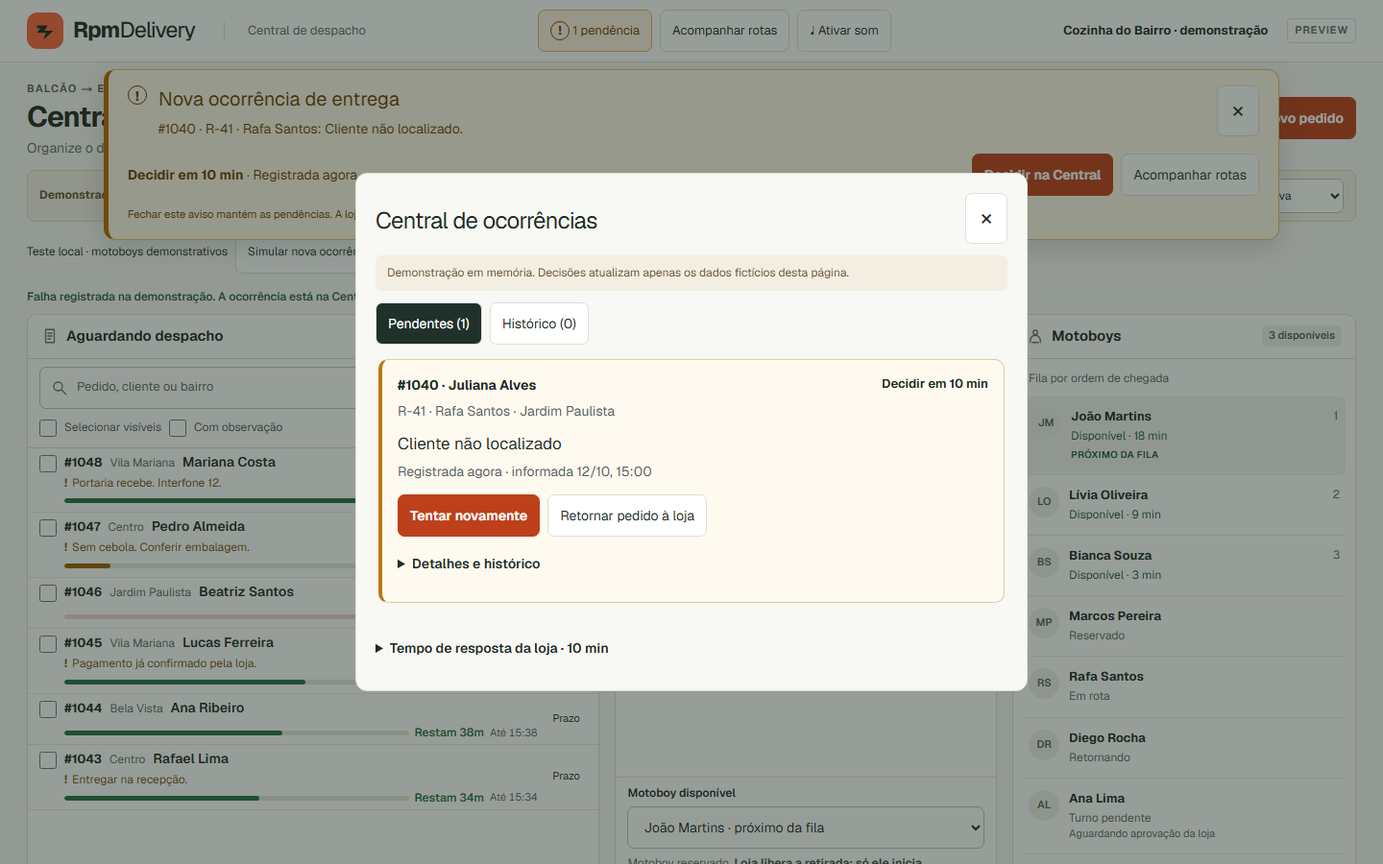
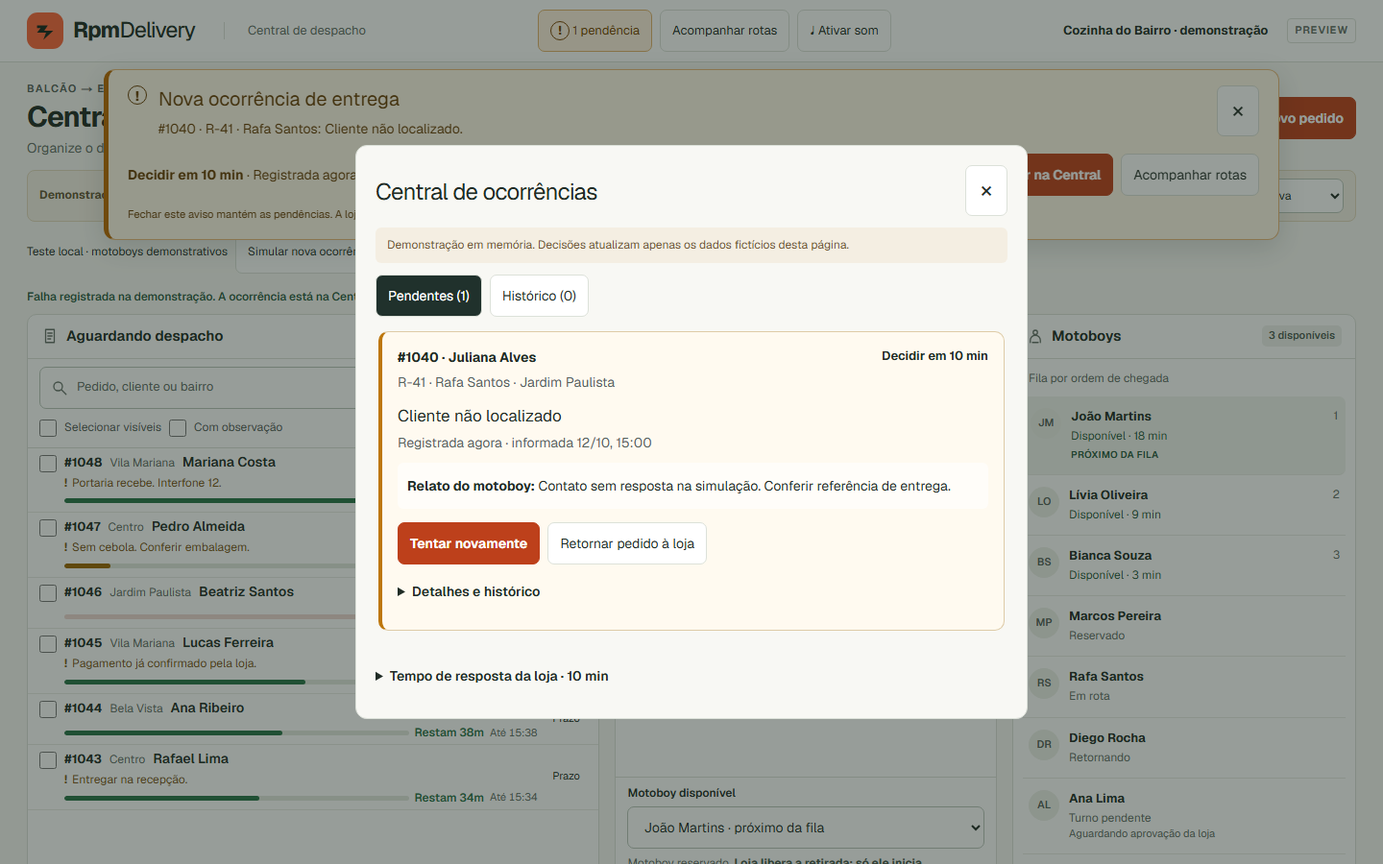
fix: clarify occurrence decisions and courier context

diff --git a/tests/e2e/operations-issues.spec.ts b/tests/e2e/operations-issues.spec.ts
@@ -101,6 +101,9 @@ test("som exige opt-in, agrupa simultâneas e não repete em relógio, reabertur
   await page.getByRole("button",{name:"Ativar som de alertas"}).click();await expect(page.getByRole("button",{name:"Silenciar alertas"})).toHaveAttribute("aria-pressed","true");
   await page.clock.runFor(1000);expect(await counters()).toEqual([0,1]);
   await open(page,"issues-multiple");expect(await counters()).toEqual([0,0]);
+  await page.getByRole("button",{name:"Simular 3 ocorrências simultâneas"}).click();
+  await expect(page.getByRole("heading",{name:"3 novas ocorrências"})).toBeVisible();await page.clock.runFor(250);expect(await counters()).toEqual([0,0]);
+  await page.reload();await expect(page.getByRole("button",{name:"Ativar som de alertas"})).toHaveAttribute("aria-pressed","false");
   await page.getByRole("button",{name:"Ativar som de alertas"}).click();await page.getByRole("button",{name:"Simular 3 ocorrências simultâneas"}).click();
   await expect(page.getByRole("heading",{name:"3 novas ocorrências"})).toBeVisible();await page.clock.runFor(250);
   expect(await counters()).toEqual([2,1]);await page.clock.runFor(5000);expect(await counters()).toEqual([2,1]);
@@ -109,6 +112,41 @@ test("som exige opt-in, agrupa simultâneas e não repete em relógio, reabertur
   await page.clock.runFor(1000);expect(await counters()).toEqual([2,1]);
   await page.getByRole("button",{name:"Silenciar alertas"}).click();await page.getByRole("button",{name:"Simular nova ocorrência"}).click();await page.clock.runFor(500);
   expect(await counters()).toEqual([2,1]);await page.reload();await expect(page.getByRole("button",{name:"Ativar som de alertas"})).toHaveAttribute("aria-pressed","false");
+});
+test("áudio bloqueado ou indisponível mantém opt-in desligado e alertas visuais utilizáveis",async({page})=>{
+  for(const blocked of [false,true]){
+    await page.addInitScript(blocked=>{
+      class BlockedAudioContext {state="suspended";async resume(){throw Error("blocked");}async close(){this.state="closed";}}
+      Object.defineProperty(window,"AudioContext",{value:blocked?BlockedAudioContext:undefined,configurable:true});
+    },blocked);
+    await open(page,"issues-new");await page.getByRole("button",{name:"Ativar som de alertas"}).click();
+    await expect(page.getByText("Não foi possível ativar o som. Os alertas visuais continuam ativos.",{exact:true})).toBeVisible();
+    await expect(page.getByRole("button",{name:"Ativar som de alertas"})).toHaveAttribute("aria-pressed","false");
+    await page.getByRole("button",{name:"Simular nova ocorrência",exact:true}).click();await expect(page.locator(".ops-new-issue")).toBeInViewport();
+  }
+});
+test("rechecagem P2: contraste, contexto antes da decisão, próxima entrega fixa e reabertura nas pendências",async({page})=>{
+  for(const width of [320,375,390,1280,1440]){
+    await page.setViewportSize({width,height:844});await open(page,"issues-long");
+    await page.getByRole("button",{name:/^Ocorrências:/}).click();
+    const selected=center(page).getByRole("tab",{name:"Pendentes (1)"});await selected.hover();
+    await expect(selected).toHaveCSS("background-color","rgb(32, 49, 44)");await expect(selected).toHaveCSS("color","rgb(255, 255, 255)");
+    const card=center(page).getByRole("article",{name:"Ocorrência do pedido 1039",exact:true});
+    await expect(card.locator(".ops-issue-context")).toContainText("Alergia alimentar: conferir etiqueta. Não deixar na recepção sem confirmação.");
+    await expect(card.locator(".ops-issue-context")).toContainText("A entrada lateral está fechada; cliente pediu para conferir a alternativa com o restaurante antes de nova tentativa.");
+    expect(await card.locator(".ops-issue-context").evaluate(el=>!!(el.compareDocumentPosition(el.parentElement!.querySelector('.ops-issue-decisions')!)&Node.DOCUMENT_POSITION_FOLLOWING))).toBe(true);
+    await card.getByRole("button",{name:"Tentar novamente"}).click();await center(page).getByRole("tab",{name:"Histórico (1)"}).click();await page.keyboard.press("Escape");
+    await page.getByRole("button",{name:"Simular nova ocorrência",exact:true}).click();await page.getByRole("button",{name:"Decidir na Central"}).click();
+    await expect(center(page).getByRole("tab",{name:"Pendentes (1)"})).toHaveAttribute("aria-selected","true");
+    await expect(center(page).getByRole("article",{name:"Ocorrência do pedido 1040",exact:true}).locator(".ops-issue-context")).toContainText("Contato sem resposta na simulação. Conferir referência de entrega.");
+    await page.keyboard.press("Escape");await page.locator(".ops-new-issue").getByRole("button",{name:"Acompanhar rotas"}).click();await courier(page);
+    await expect(driver(page).locator(".ops-driver-heading>.ops-kicker")).toBeVisible();await expect(driver(page).locator(".ops-driver-heading")).toContainText("PRÓXIMA ENTREGA");
+    await expect(driver(page).getByRole("heading",{name:/#1043/})).toBeInViewport();
+    await driver(page).getByRole("button",{name:"Não consegui entregar"}).click();await driver(page).getByLabel("Motivo da falha").selectOption("OTHER");
+    await driver(page).getByRole("textbox").fill("Relato longo fictício. ".repeat(20));
+    await expect(driver(page).getByRole("heading",{name:/#1043/})).toBeInViewport();await expect(driver(page).locator(".ops-driver-heading>.ops-kicker")).toBeInViewport();
+    expect(await driver(page).evaluate(el=>el.scrollWidth<=el.clientWidth)).toBe(true);
+  }
 });
 for(const width of [320,375,390,1280,1440])test(`alerta, foco, textos longos, toque e ações em ${width}px`,async({page})=>{
   await page.setViewportSize({width,height:width>=1280?900:844});await page.emulateMedia({reducedMotion:"reduce"});

diff --git a/features/operations/courier-delivery.tsx b/features/operations/courier-delivery.tsx
@@ -12,7 +12,7 @@ export function CourierDelivery({order,route,courierId,now,onCommand,actionsRef,
   const heading = useRef<HTMLHeadingElement>(null), reasonRef = useRef<HTMLSelectElement>(null);
   const [failure,setFailure] = useState(false),[reason,setReason] = useState(""),[description,setDescription] = useState(""),[error,setError] = useState("");
   const attempt = order.attemptNumber ?? 1;
-  useEffect(() => {heading.current?.focus();},[]);
+  useEffect(() => {heading.current?.focus({preventScroll:true});},[]);
   function failed() {
     setError("");
     if(!Object.hasOwn(ISSUE_REASONS,reason)){setError("Selecione o motivo da falha.");reasonRef.current?.focus();return;}
@@ -21,9 +21,11 @@ export function CourierDelivery({order,route,courierId,now,onCommand,actionsRef,
       expectedAttempt:attempt,commandId:`courier:${order.id}:${attempt}:failure`,reason:reason as IssueReason,description}))setError("A rota mudou. Confira a próxima entrega antes de continuar.");
   }
   return <>
-    <section className="ops-driver-current" aria-label={`Próxima entrega ${order.reference}`}>
+    <header className="ops-driver-heading">
       <span className="ops-kicker">PRÓXIMA ENTREGA · {route.orderIds.indexOf(order.id)+1} NA SEQUÊNCIA ORIGINAL</span>
       <h3 ref={heading} tabIndex={-1}>#{order.reference} · {order.customer}</h3>
+    </header>
+    <section className="ops-driver-current" aria-label={`Próxima entrega ${order.reference}`}>
       <p>{order.address} · {order.neighborhood}</p>{order.complement&&<p>{order.complement}</p>}
       {order.notes&&<p className="ops-driver-notes"><strong>Observação:</strong> {order.notes}</p>}
       {(route.retryOrderIds??[]).includes(order.id)&&<p className="ops-driver-retry">Nova tentativa liberada pela loja.</p>}
@@ -40,7 +42,7 @@ export function CourierDelivery({order,route,courierId,now,onCommand,actionsRef,
       {children}
     </section>
     <div ref={actionsRef} className="ops-driver-actions">
-      {failure?<><button onClick={()=>{setFailure(false);setError("");heading.current?.focus();}}>Voltar à entrega</button><button className="ops-primary" type="submit" form="ops-failure-form">Registrar falha</button></>
+      {failure?<><button onClick={()=>{setFailure(false);setError("");heading.current?.focus({preventScroll:true});}}>Voltar à entrega</button><button className="ops-primary" type="submit" form="ops-failure-form">Registrar falha</button></>
         :<><button className="ops-primary" onClick={()=>{
           if(!onCommand({type:"delivery-complete",routeId:route.id,orderId:order.id,actorId:courierId,now:Date.now(),expectedAttempt:attempt,
             commandId:`courier:${order.id}:${attempt}:complete`}))setError("A rota mudou. Confira a próxima entrega antes de continuar.");

diff --git a/features/operations/issue-card.tsx b/features/operations/issue-card.tsx
@@ -22,8 +22,12 @@ export function IssueCard({issue,state,now,onCommand,onFollow}:{
       <span>{issue.status === "PENDING" ? timing.remaining : RESOLUTIONS[issue.resolution!]}</span></div>
     <p className="ops-issue-who">{route.reference} · {courier.name} · {order.neighborhood}</p>
     <h3>{ISSUE_REASONS[issue.reason]}</h3>
-    {issue.reason === "OTHER" && <p>{Array.from(issue.description).slice(0,160).join("")}{issue.description.length>160?"…":""}</p>}
     <p className="ops-issue-time">{issue.status === "PENDING" ? timing.elapsed : `Encerrada ${calendarTime(issue.closedAt!)}`} · informada {calendarTime(issue.reportedAt)}</p>
+    <div className="ops-issue-context">
+      {order.complement&&<p><strong>Referência:</strong> {order.complement}</p>}
+      {order.notes&&<p><strong>Observação do pedido:</strong> {order.notes}</p>}
+      {issue.description&&<p><strong>Relato do motoboy:</strong> {issue.description}</p>}
+    </div>
     {issue.status === "PENDING" && <div className="ops-issue-decisions">
       {!confirmCancel ? <><button className="ops-primary" onClick={() => decide("RETRY")}>Tentar novamente</button>
         <button onClick={() => decide("RETURN")}>Retornar pedido à loja</button></>
@@ -32,8 +36,6 @@ export function IssueCard({issue,state,now,onCommand,onFollow}:{
     </div>}
     <details className="ops-issue-detail"><summary>Detalhes e histórico</summary>
       <p><strong>Destino:</strong> {order.address} · {order.neighborhood}</p>{order.complement&&<p>{order.complement}</p>}
-      {order.notes&&<p><strong>Observação do pedido:</strong> {order.notes}</p>}
-      {issue.description&&<p><strong>Relato completo:</strong> {issue.description}</p>}
       <p>Limite de resposta: {calendarTime(issue.decisionDeadline)}. Prazo fixado ao registrar a falha.</p>
       <ol>{history.map(event => <li key={event.id}>{calendarTime(event.at)} · {event.actorType === "SYSTEM" ? "Sistema demonstrativo" : event.actorType === "STORE" ? "Operador demonstrativo" : courier.name} · {
         event.type === "DELIVERY_ATTEMPT_FAILED" ? "Falha registrada" : event.detail && Object.hasOwn(RESOLUTIONS,event.detail) ? RESOLUTIONS[event.detail as keyof typeof RESOLUTIONS] : "Decisão registrada"

diff --git a/features/operations/courier-dialog.tsx b/features/operations/courier-dialog.tsx
@@ -40,13 +40,13 @@ export function CourierDialog({dialogRef,state,routeId,onCommand,now,onCompleted
     onClose={()=>{if(route?.status==="COMPLETED")onCompletedClose(route.id);}}>
     <div className="ops-dialog-heading"><h2 id="ops-courier-view-title">Aplicativo do motoboy</h2><button ref={closeRef} aria-label="Fechar visão do motoboy" onClick={()=>dialogRef.current?.close()}>×</button></div>
     {route&&courier&&<>
-      <p className="ops-dialog-notice">Simulação local. Sem autenticação real, tracking ou notificações. Ações reais exigirão validação no backend.</p>
+      <p className="ops-dialog-notice">Demonstração · dados fictícios. Suas ações valem apenas nesta página.</p>
       <div className="ops-courier-route"><strong>{courier.name} · {route.reference}</strong><RouteBadge status={route.status}/></div>
       {route.status==="PREPARING"&&<p className={`ops-pickup ${route.pickupReleasedAt===null?"is-waiting":"is-released"}`}>
         <strong>{route.pickupReleasedAt===null?"Aguardando liberação":"Pronto para retirada"}</strong>
         <span>{route.pickupReleasedAt===null?"Você já pode conferir a rota. Aguarde a loja liberar todos os pedidos.":"Recolha todos os pedidos e confirme o início abaixo."}</span>
       </p>}
-      {urgent&&<div className="ops-urgent-deadline"><span>Prazo mais urgente · #{urgent.reference}</span><DeadlineText order={urgent} now={now}/></div>}
+      {urgent&&(!current||urgent.id!==current.id)&&<div className="ops-urgent-deadline"><span>Prazo mais urgente · #{urgent.reference}</span><DeadlineText order={urgent} now={now}/></div>}
       <p className="ops-deadline-help">Prazo prometido, sem previsão de trajeto ou garantia de chegada.</p>
       {current?<CourierDelivery key={`${current.id}:${current.attemptNumber??1}`} order={current} route={route} courierId={courier.id} now={now} onCommand={onCommand} actionsRef={actionsRef}>
         <details className="ops-driver-sequence"><summary>Ver sequência completa · {route.orderIds.length} entregas</summary>{sequence}</details>

diff --git a/features/operations/issues.css b/features/operations/issues.css
@@ -37,6 +37,12 @@
 .ops-issue-settings form{display:flex;align-items:flex-end;gap:8px;flex-wrap:wrap}.ops-issue-settings label{display:grid;gap:4px;font-size:13px}.ops-issue-settings input{min-height:44px;width:100px;font-size:16px;padding:8px}.ops-issue-settings button{min-height:44px}.ops-issue-settings p{font-size:12px;margin:8px 0}
 .ops-courier-dialog>.ops-driver-current,.ops-courier-dialog>.ops-driver-body{flex:1 1 auto;min-height:80px;overflow:auto;overscroll-behavior:contain;padding:4px 3px}
 .ops-driver-current h3{font-size:20px;margin:8px 0}.ops-driver-current p{font-size:14px;overflow-wrap:anywhere}.ops-driver-current>h3{overflow-wrap:anywhere}
+.ops-driver-heading{flex-shrink:0;padding:6px 3px;border-bottom:1px solid var(--line)}
+.ops-driver-heading>.ops-kicker{display:block;font-size:11px;letter-spacing:.04em}
+.ops-driver-heading h3{font-size:19px;line-height:1.3;overflow-wrap:anywhere;margin:6px 0}
+.ops-issue-context{margin:10px 0;padding:8px 10px;border-radius:6px;background:rgb(255 255 255 / .6)}
+.ops-issue-context p{white-space:pre-wrap;overflow-wrap:anywhere}
+@media(hover:hover) and (pointer:fine){.operations .ops-issue-center [role=tab][aria-selected=true]:hover{background:#20312c;color:#fff}}
 .ops-driver-notes,.ops-driver-issue,.ops-driver-retry,.ops-driver-return{background:#fff6e4;border-radius:6px;padding:10px;color:#754609}
 .ops-driver-current .ops-courier-deliveries,.ops-driver-body .ops-courier-deliveries{overflow:visible;min-height:0;flex:none;margin:0}
 .ops-driver-actions{display:flex;gap:8px;padding-top:10px;flex-shrink:0!important}.ops-driver-actions button{flex:1;min-height:44px;padding:10px 8px;font-size:14px}

diff --git a/tests/unit/operations-issues.test.ts b/tests/unit/operations-issues.test.ts
@@ -5,8 +5,14 @@ import {operationsReducer as reduce, availableCouriers, type DemoState, type Com
 import {DEMO_EPOCH as T,MINUTE} from "../../features/operations/deadlines.ts";
 import {DEMO_STORE_ACTOR as STORE, type IssueDecision} from "../../features/operations/issue-types.ts";
 import {nextDelivery} from "../../features/operations/route-progress.ts";
+import {issueTiming} from "../../features/operations/issue-presentation.ts";
 
 const routeId="demo-route-43",actorId="joao";
+test("contagem do aviso nunca excede a janela de resposta quando o relógio compartilhado atrasa",()=>{
+  const state=active(),failed=reduce(state,action(state,"delivery-failure",T+500)),issue=failed.issues[0];
+  assert.equal(issueTiming(issue,T).remaining,"Decidir em 10 min");
+  assert.equal(issueTiming(issue,issue.decisionDeadline).remaining,"Prazo de resposta encerrado");
+});
 function active(count=3):DemoState {
   let state=createDemoState("issues-none");
   state=reduce(state,{type:"assign",ids:state.orders.slice(0,count).map(o=>o.id),courierId:actorId});

diff --git a/features/operations/issue-center.tsx b/features/operations/issue-center.tsx
@@ -15,7 +15,7 @@ export function IssueCenter({dialogRef,state,now,onCommand,onFollow}:{
   const issues = view === "pending" ? pending : closed;
   const last = Math.max(0,Math.ceil(issues.length/20)-1), current = Math.min(page,last);
   function switchView(next: "pending"|"history") {setView(next);setPage(0);}
-  return <dialog ref={dialogRef} className="ops-dialog ops-issue-center" aria-labelledby="ops-issue-center-title">
+  return <dialog ref={dialogRef} className="ops-dialog ops-issue-center" aria-labelledby="ops-issue-center-title" onClose={()=>{switchView("pending");setError("");}}>
     <div className="ops-dialog-heading"><h2 id="ops-issue-center-title">Central de ocorrências</h2><button aria-label="Fechar Central de ocorrências" onClick={() => dialogRef.current?.close()}>×</button></div>
     <p className="ops-dialog-notice">Demonstração em memória. Decisões atualizam apenas os dados fictícios desta página.</p>
     <div role="tablist" aria-label="Ocorrências">

diff --git a/docs/delivery-occurrences-visual-review-initial.md b/docs/delivery-occurrences-visual-review-initial.md
@@ -1,0 +1,60 @@
+Relatório integral do subagente nativo `rpmdelivery_visual_critic`, executado em sessão independente, sem histórico do Builder e sem overrides de modelo/esforço:
+
+---
+
+Revisão independente do candidato `0e5fe184d608eb941cb20766035bab697e8d0de1`, branch `codex/delivery-alerts-occurrences`, base `3face6d07082a5e977ab2cce1a23383983a02aa5`, futura PR da Issue #12. Árvore de trabalho limpa no momento da inspeção.
+
+A revisão encontrou três pontos P2. Nenhum P0/P1 foi observado nas evidências disponíveis. Isso não constitui aprovação da PR.
+
+**Método e cobertura:** inspeção visual das 34 capturas versionadas em `docs/screenshots/delivery-occurrences/`, acompanhada de leitura dos componentes e CSS. Dimensões das imagens: 1280×800, 1440×900, 320×844, 375×844 e 390×844. Foram examinados aviso, Central, múltiplas ocorrências, urgência, histórico após prazo, textos longos, rotas, próxima entrega, formulário de falha, retorno, montagem com 1.000 pedidos, vazio e um pedido.
+
+URL informada: `http://127.0.0.1:3010/preview/operacao?scenario=issues-new`. O IAB estava indisponível. O acesso pelo Chrome foi rejeitado pela política do navegador por permissão negada; não houve tentativa de contorno. Portanto, **nenhuma interação foi executada por este revisor**. Os passos abaixo são roteiros para reprodução pelo Builder, não testes interativos meus. Não utilizei `metrics.json` como medição independente.
+
+**[P2] Aba ativa perde legibilidade em estado de hover**
+
+- **Observação:** em `center-375.png` e `center-390.png`, “Pendentes (1)” aparece branco sobre fundo muito claro. Nas capturas 320/1280/1440, a mesma aba aparece com fundo escuro e texto legível.
+- **Impacto:** dificulta reconhecer a aba selecionada e ler a quantidade de pendências.
+- **Evidência estática:** `features/operations/issues.css:26` define fundo escuro e texto branco para `[aria-selected=true]`; `features/operations/operations.css:879` aplica fundo claro ao hover de qualquer botão habilitado, com maior especificidade. Essa colisão explica o estado observado, embora o hover não tenha sido reproduzido interativamente.
+- **Reprodução:** abrir a Central em 375×844 ou 390×844 e posicionar o ponteiro sobre “Pendentes”.
+- **Recomendação:** definir explicitamente o hover da aba selecionada ou restringir a regra genérica. Manter contraste legível e seleção reconhecível em todos os estados.
+
+**[P2] Próxima entrega perde o rótulo que a distingue do prazo mais urgente**
+
+- **Observação:** em `courier-next-320.png`, `courier-next-375.png` e `courier-next-390.png`, o cabeçalho mostra “Prazo mais urgente · #1040”, seguido do pedido `#1039`, mas o rótulo “PRÓXIMA ENTREGA” não aparece. Ele está visível nas capturas desktop. Em `courier-failure-390.png`, o início do título do pedido também aparece parcialmente cortado pelo limite superior da área rolável.
+- **Impacto:** cria ambiguidade entre o pedido destacado pelo prazo e aquele ao qual se aplicam “Entregue” e “Não consegui entregar”.
+- **Responsáveis:** `features/operations/courier-delivery.tsx:15` move o foco para o título; o rótulo está antes dele, na linha 25. A área tem rolagem própria em `features/operations/issues.css:38`.
+- **Hipótese a verificar:** o `focus()` automático pode deslocar a área rolável, deixando o rótulo anterior fora de vista. Não confirmei essa causa no navegador.
+- **Reprodução:** registrar falha no `#1040`, abrir a próxima entrega `#1039` em 320/375/390×844; depois abrir o formulário de falha com nomes longos.
+- **Recomendação:** preservar a identificação “Próxima entrega” junto ao título e controlar o deslocamento ao mover o foco, mantendo o foco acessível. A informação deve continuar visível mesmo quando o prazo mais urgente pertence a outro pedido.
+
+**[P2] Informações essenciais ficam recolhidas abaixo das decisões**
+
+- **Observação estática comprovada:** em `features/operations/issue-card.tsx:27`, as decisões são apresentadas antes de `details`, fechado por padrão na linha 33. Observações do pedido aparecem somente na linha 35; o relato completo, na linha 36. O resumo do relato aparece apenas para motivo `OTHER` e é limitado a 160 caracteres na linha 25. Para outros motivos, um complemento preenchido pelo motoboy fica inteiramente recolhido.
+- **Impacto:** a loja pode liberar nova tentativa sem ver instruções de acesso, restrições ou o complemento que explica a falha. A existência de informação adicional também não é indicada no resumo.
+- **Evidência visual complementar:** `long-details-390.png` mostra as decisões antes do bloco expandido de destino e relato; `courier-failure-390.png` contém uma observação operacional de alergia e confirmação de entrega. A ocultação na Central é demonstrada pelo código, não por uma captura específica da Central desse mesmo pedido.
+- **Reprodução:** usar ocorrência com observação e complemento do motivo; abrir a Central sem expandir “Detalhes e histórico”.
+- **Recomendação:** apresentar observações operacionais e o relato integral antes das decisões, com quebra de linhas e rolagem. Manter histórico e metadados secundários no bloco recolhível. Não aumentar densidade truncando essas informações.
+
+| Antes | Depois | Benefício |
+|---|---|---|
+| Hover clareia o fundo da aba ativa, mantendo texto branco | Estado selecionado mantém contraste no hover | Leitura confiável da seleção e contagem |
+| Rótulo da próxima entrega sai da área visível | Identificação permanece junto ao pedido e foco não a oculta | Reduz ambiguidade entre pedido atual e prazo urgente |
+| Observações e relato completo ficam após decisões, recolhidos | Informações operacionais aparecem integralmente antes das decisões | Dá contexto para decidir tentativa ou retorno |
+
+**Aspectos que resistiram à inspeção visual e estática:**
+
+- Aviso identifica pedido, rota, motoboy, motivo e prazo, com ações claras; o texto explica que fechar mantém as pendências.
+- Central mantém identificação e decisões legíveis em 320 px, com nomes longos quebrando linhas.
+- Urgência combina texto de prazo com mudança de cor; não depende somente da cor.
+- Múltiplas ocorrências mantêm contagem explícita. O código ordena pendências por prazo de decisão, depois registro.
+- Captura de retorno distingue pedido entregue de pedido a devolver, orienta chegada e informa retorno ao final da fila.
+- PREPARING apresenta liberação pela loja e início exclusivo pelo motoboy; ON_ROUTE comunica composição e sequência bloqueadas.
+- Ações principais da Central e do motoboy têm `min-height:44px` no CSS; campos novos usam 16 px. Isso é evidência estática, não medição de toque.
+- Movimento do aviso usa somente `opacity` e `transform`, 160 ms, curva `cubic-bezier(.23,1,.32,1)` e redução de movimento em `issues.css:47`. Nenhum achado de movimento nessa inspeção estática; fluidez e comportamento real da preferência permanecem não verificados.
+- Marca do raio e linguagem visual existentes foram preservadas nas capturas. Não houve comparação com Figma, pois não há frame aprovado disponível.
+
+**Cobertura pendente:** foco real, Tab/setas/Escape, retorno de foco após decisões, rolagem até o fim de relatos longos e terceira pendência, decisões retry/return/cancel, fechamento sem resolução, expiração ao vivo, erros de formulário, paginação da Central, console/network, zoom e fontes carregadas. As capturas não comprovam ausência de overflow fora da área fotografada. Não executei testes, builds ou servidores; resultados de validação do Builder devem ser vinculados ao HEAD correspondente.
+
+Aparelho físico, teclado virtual, safe areas, gestos, zoom nativo e qualidade acústica não foram testados. Esta inspeção básica não declara conformidade WCAG completa.
+
+Devolvo ao Builder como prioridades: corrigir contraste da aba ativa, preservar a identificação da próxima entrega e expor o contexto operacional antes das decisões. Nenhum arquivo foi alterado; aprovação e merge continuam humanos.

diff --git a/docs/delivery-occurrences-validation.md b/docs/delivery-occurrences-validation.md
@@ -1,0 +1,61 @@
+# Validação da Central de ocorrências
+
+Versão revisada inicialmente: `0e5fe184d608eb941cb20766035bab697e8d0de1`, baseada na main `3face6d07082a5e977ab2cce1a23383983a02aa5`. Os resultados abaixo incluem a correção e rechecagem dos P2. A versão final de produto é identificada no relatório independente final e na PR. Escopo e integração futura: [delivery-occurrences-prototype.md](delivery-occurrences-prototype.md).
+
+## Verificações do Builder
+
+- `npm ci`: passou, sem mudança no lockfile. A instalação relatou cinco alertas de desenvolvimento preexistentes; dependências não foram alteradas.
+- `npm run verify`: lint, typecheck e build Next.js 16.3.8 aprovados.
+- `npm run test:unit`: 71 testes aprovados, incluindo transições, ator incorreto, idempotência, retries, timeout/decisão na mesma fronteira, sequência, fila, arredondamento da contagem e limite local de 1.000 pedidos.
+- `npm run test:sql:install` e `npm run test:sql`: aprovados. Somente PGlite local, incluindo migrations existentes, preservação legada, RPC, grants e RLS; nenhuma aplicação remota.
+- `npm audit --omit=dev`: zero vulnerabilidades.
+- `npm run test:e2e -- --workers=2`: 132 aprovados, nos projetos desktop-chromium e mobile-chromium; zero retries locais (configuração existente preservada).
+- `git diff --check` e `git diff --cached --check`: aprovados.
+
+As falhas intermediárias foram corrigidas antes dessa execução final: imports usados pelo runner Node, expectativas antigas de conclusão em lote/número de sequência, fixture de pico que encerrava a última rota e área útil da montagem mobile. Os testes de densidade foram preservados. Não foram adicionados retries ou removidas proteções.
+
+## Inspeção no navegador integrado
+
+Servidor de produção local da worktree em `http://127.0.0.1:3010`, sem encerrar servidores de outras tarefas. Desktop 1280×800/1440×900 e mobile por redimensionamento em 390×844. Fluxo real de cliques com dados fictícios: registrar falha de endereço, consultar a Central, liberar nova tentativa, executar a parada seguinte e reencontrar o pedido original. Também foram verificadas ativação explícita do Web Audio, silenciamento e navegação para rotas com foco e cabeçalho persistente.
+
+Logs error/warn vazios; captura CDP sem exceções Runtime, Network.loadingFailed ou HTTP ≥400, sem truncamento. O Playwright complementa a emulação mobile e cobre 320/375/390/1280/1440, foco/teclado, observações longas, vazio, um pedido, pico, timeout, decisões e som instrumentado. Contar osciladores comprova execução/deduplicação, não volume ou conforto acústico em um aparelho físico.
+
+Não há frame Figma aprovado para esta tela. Foram usados o design system atual e o raio minimalista. Nenhuma edição no Figma foi realizada.
+
+## Capturas e densidade
+
+Capturas PNG reais estão em [screenshots/delivery-occurrences](screenshots/delivery-occurrences/). Data de relógio fixa e fictícia: 12/10/2026, 15h em America/Sao_Paulo; `reduced-motion` ativado na captura. [metrics.json](screenshots/delivery-occurrences/metrics.json) registra os números completos e ausência de erros.
+
+| Viewport | Pedidos completos no pico | Paradas completas na montagem | Rodapé de atribuição |
+| --- | ---: | ---: | --- |
+| 1280×800 | 6 | 3 | acessível |
+| 1440×900 | 8 | 6 | acessível |
+| 320×844 | 4 | 1 | acessível; conferência ampliada disponível |
+| 375×844 | 4 | 3 | acessível |
+| 390×844 | 4 | 3 | acessível |
+
+Não houve rolagem horizontal nesses cinco viewports. A conferência ampliada da montagem continua disponível para listas extensas e telas muito estreitas, com seus testes existentes preservados.
+
+Exemplos: [alerta desktop](screenshots/delivery-occurrences/alert-1280.png), [Central 320px](screenshots/delivery-occurrences/center-320.png), [rota destacada mobile](screenshots/delivery-occurrences/routes-390.png), [próxima entrega](screenshots/delivery-occurrences/courier-next-390.png), [formulário com relato e observações](screenshots/delivery-occurrences/courier-failure-390.png), [retorno](screenshots/delivery-occurrences/courier-returning-390.png), [prazo crítico](screenshots/delivery-occurrences/critical-390.png), [timeout no histórico](screenshots/delivery-occurrences/timeout-history-390.png) e [múltiplas pendências](screenshots/delivery-occurrences/multiple-center-390.png).
+
+## Preservação
+
+Os seis arquivos anteriores do checkout principal foram comparados por SHA-256 antes e depois: package.json, package-lock.json, supabase/.gitignore, supabase/config.toml, .env.local e imagem original em public/brand. Todos permaneceram idênticos. Nenhum conteúdo de credencial foi exposto.
+
+O diff da feature não altera dependências, autenticação, banco, migrations, Supabase, marca ou motores de otimização/agrupamento. A validação de produto usa somente mocks e estado fictício. Nenhum merge, auto-merge ou deploy foi executado.
+
+## Revisão independente e correções
+
+O subagente nativo `rpmdelivery_visual_critic` foi invocado sem histórico do Builder, com `sandbox=read-only` e `approval=never`. Primeira sessão: coordenador `01a13568-075c-7df1-8b6a-a4fa39800822`, filho `01a13568-6bc1-7291-8a04-859fe814d5ba`, role nativo confirmado nos metadados. [Relatório inicial integral](delivery-occurrences-visual-review-initial.md).
+
+Os três P2 foram corrigidos pelo Builder:
+
+- Hover da aba selecionada mantém fundo escuro e texto branco, com regra específica.
+- Identificação da próxima entrega fica fora da área rolável, com rótulo visível no mobile e foco sem deslocamento. O aviso de prazo urgente separado aparece quando corresponde a outro pedido; o prazo do pedido atual permanece na própria entrega.
+- Referência, observação e relato integral, inclusive motivos diferentes de “Outro”, ficam antes das decisões. Histórico e metadados secundários continuam progressivos.
+
+A rechecagem do Builder encontrou ainda a Central reabrindo no histórico após uma nova ocorrência. O fechamento agora restaura Pendentes. Um E2E cobre o fluxo completo e os três P2 em 320/375/390/1280/1440. Outro cobre Web Audio ausente ou bloqueado; a instrumentação também verifica novas ocorrências com som desligado, além do histórico sem replay.
+
+As sete capturas citadas nos P2 iniciais foram preservadas em [before-review](screenshots/delivery-occurrences/before-review/). As capturas na raiz são da versão corrigida. O relatório inicial corresponde ao commit `0e5fe18`; ele não deve ser interpretado como revisão dessas imagens novas.
+
+O relatório independente final e o resultado do CI são vinculados na PR; suas observações não são substituídas por este relatório do Builder. O revisor inicial não teve acesso ao IAB e não contornou a recusa do Chrome; usou screenshots e código. Nenhuma aprovação automática foi dada.
